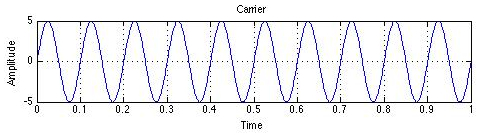
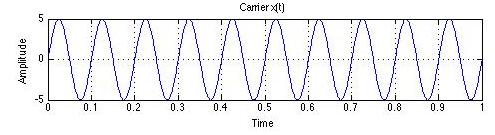
Fixing images

Changed region(s): [[0.0, 0.0296, 0.9917, 0.8593], [0.4959, 0.8593, 0.5579, 0.9481]]

diff --git a/_site/jekyll/update/2014/10/30/bpsk-matlab.html b/_site/jekyll/update/2014/10/30/bpsk-matlab.html
@@ -106,13 +106,13 @@
 <span class="n">plot</span><span class="p">(</span><span class="n">t</span><span class="p">,</span> <span class="n">x</span><span class="p">);</span>                   <span class="c">% plotting x(t)</span>
 <span class="n">xlabel</span><span class="p">(</span><span class="s">&#39;Time&#39;</span><span class="p">);</span>
 <span class="n">ylabel</span><span class="p">(</span><span class="s">&#39;Amplitude&#39;</span><span class="p">);</span>
-<span class="n">title</span><span class="p">(</span><span class="s">&#39;Carrier&#39;</span><span class="p">);</span>
+<span class="n">title</span><span class="p">(</span><span class="s">&#39;Carrier x(t)&#39;</span><span class="p">);</span>
 <span class="n">grid</span> <span class="n">on</span><span class="p">;</span></code></pre></div>
 
 <p>Now we can see the carrier <em>x(t)</em> we’re gonna use to modulate our message <em>m(t)</em>:</p>
 
 <div style="text-align:center">
-  <p><img src="http://tolribeiro.github.io/mywebsite/downloads/carrier.jpg" alt="Message Signal" title="Message Signal m(t)" /></p>
+  <p><img src="http://tolribeiro.github.io/mywebsite/downloads/carrier.jpg" alt="Carrier Signal" title="Carrier x(t)" /></p>
 </div>
 
 
